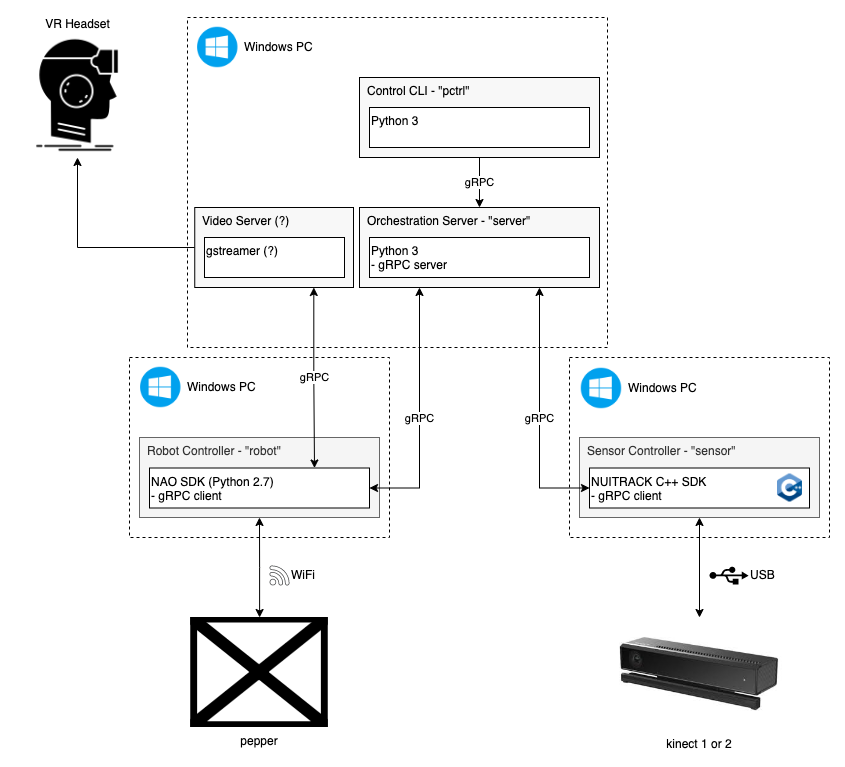
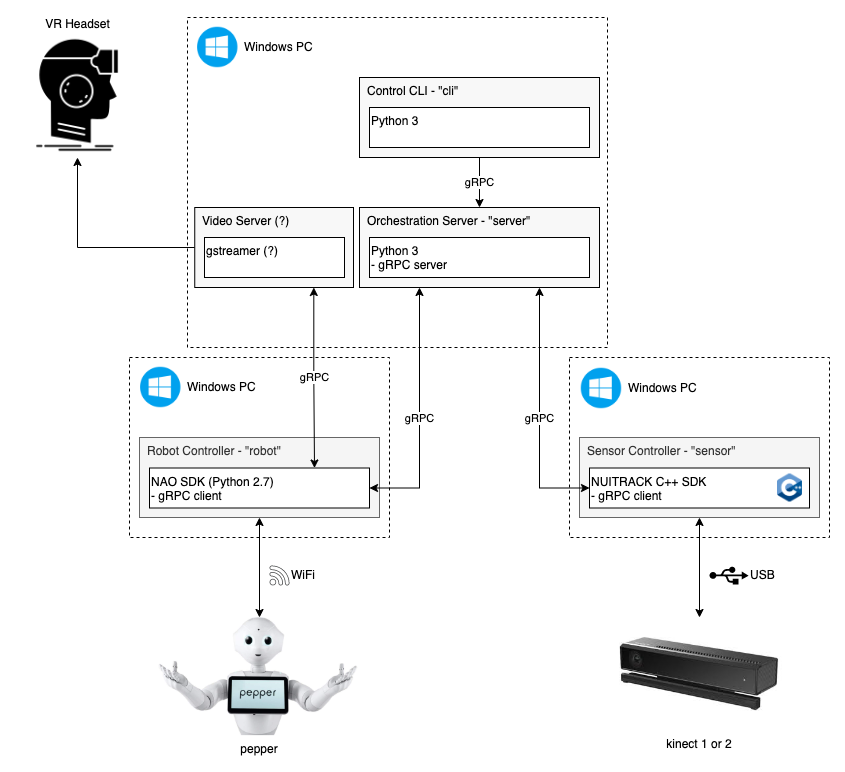
Update README

diff --git a/README.md b/README.md
@@ -11,3 +11,10 @@ Honours thesis project at QUT. Setting up the Pepper Robot from Softbank robotic
 ![Project architecture](./architecture.png)
 
 [draw.io diagram](https://drive.google.com/file/d/15wpGS0--yn8Fi1c7cR0pJ2L11V6-p2VH/view?usp=sharing)
+
+| Component | Description                                                                                       |
+| --------- | ------------------------------------------------------------------------------------------------- |
+| server    | Python gRPC server to facilitate network communications between all components                    |
+| robot     | Python program to operate Pepper, gRPC client; handles robot commands and video + audio streaming |
+| sensor    | C++ program to harvest data from the Kinect sensor, gRPC client                                   |
+| cli       | Python program to conveniently control the system, gRPC client                                    |
